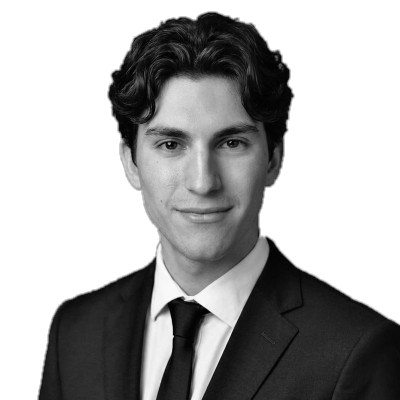
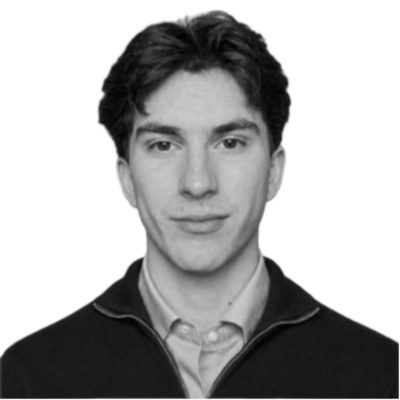
Team: add Theo Watson to Ops & Outreach; committee rows of three and four
New photo for Sebastian Fioravante, correct fallback initials on both
Ops & Outreach cards, committee sized like the division heads, and
Emily Chiaia-Miller's new LinkedIn URL.

Changed region(s): [[0.0, 0.0, 1.0, 1.0], [0.81, 0.87, 0.87, 0.9]]

diff --git a/team/index.html b/team/index.html
@@ -243,18 +243,32 @@
       .team__tier--division-heads .team-card__name { font-size: clamp(0.75rem, 3.7vw, 0.9375rem); }
     }
 
-    /* Committee: six officers, so a fixed grid instead of the flex row.
-       Every circle sits on one grid rather than being pushed about by name
-       length: three by two on wide screens, two per row on phones. */
-    .team__tier--committee .team__tier-cards {
-      display: grid;
-      grid-template-columns: repeat(3, minmax(0, 220px));
-      justify-content: center;
-      gap: var(--space-5) clamp(16px, 4vw, 64px);
+    /* Committee: two centred rows (three, then four) sized exactly like the
+       division heads: every card the same width with the same gap. On phones
+       the two rows dissolve into one flow, two per row. */
+    .team__tier--committee {
+      --dh-w: 200px;
+      --dh-gap: clamp(16px, 3vw, 48px);
     }
-    .team__tier--committee .team-card { text-align: center; }
+    .team__committee-rows {
+      display: flex;
+      flex-direction: column;
+      gap: var(--space-4);
+    }
+    .team__tier--committee .team__tier-cards { gap: var(--space-4) var(--dh-gap); }
+    .team__tier--committee .team-card {
+      flex: 0 0 var(--dh-w);
+      width: var(--dh-w);
+      text-align: center;
+    }
     @media (max-width: 560px) {
-      .team__tier--committee .team__tier-cards { grid-template-columns: repeat(2, minmax(0, 160px)); gap: var(--space-4) 14px; }
+      .team__tier--committee { --dh-w: 148px; --dh-gap: 14px; }
+      .team__committee-rows {
+        flex-flow: row wrap;
+        justify-content: center;
+        gap: var(--space-4) var(--dh-gap);
+      }
+      .team__tier--committee .team__tier-cards { display: contents; }
       .team__tier--committee .team-card__photo { width: 128px; height: 128px; }
       .team__tier--committee .team-card__name { font-size: clamp(0.75rem, 3.7vw, 0.9375rem); }
       .team__tier--committee .team-card__role { font-size: 0.8125rem; }
@@ -445,6 +459,7 @@
       <!-- ── Committee ──────────────────────────────────────────────────── -->
       <div class="team__tier team__tier--committee">
         <span class="team__tier-label">Committee</span>
+        <div class="team__committee-rows">
         <div class="team__tier-cards">
 
           <a class="team-card" href="https://www.linkedin.com/in/rezqymaulana/" target="_blank" rel="noopener noreferrer" aria-label="Rezqy Maulana, General Secretary — LinkedIn profile">
@@ -467,7 +482,7 @@
             <p class="team-card__role">Treasurer</p>
           </a>
 
-          <a class="team-card" href="https://www.linkedin.com/in/emily-chiaia-miller-006469313/" target="_blank" rel="noopener noreferrer" aria-label="Emily Chiaia-Miller, DEI Officer — LinkedIn profile">
+          <a class="team-card" href="https://www.linkedin.com/in/emily-c-006469313/" target="_blank" rel="noopener noreferrer" aria-label="Emily Chiaia-Miller, DEI Officer — LinkedIn profile">
             <div class="team-card__photo">
               <img class="team-card__img" src="assets/img/team/emily-chiaia-miller.jpg" alt="Emily Chiaia-Miller" onerror="this.style.display='none'" />
               <svg class="team-card__img" viewBox="0 0 180 180" xmlns="http://www.w3.org/2000/svg" aria-hidden="true"><rect width="180" height="180" fill="#0d2b6b"/><text x="90" y="112" text-anchor="middle" font-family="system-ui,sans-serif" font-size="62" font-weight="700" fill="#38bdf8" letter-spacing="-2">EC</text></svg>
@@ -476,14 +491,26 @@
             <p class="team-card__name"><span>Emily</span> <span>Chiaia-Miller</span></p>
             <p class="team-card__role">DEI Officer</p>
           </a>
+        </div>
+        <div class="team__tier-cards">
 
           <a class="team-card" href="https://www.linkedin.com/in/sebastian-fioravante-722894233/" target="_blank" rel="noopener noreferrer" aria-label="Sebastian Fioravante, Ops &amp; Outreach — LinkedIn profile">
             <div class="team-card__photo">
-              <img class="team-card__img" src="assets/img/team/sebastian-fioravante.jpg" alt="Sebastian Fioravante" onerror="this.style.display='none'" />
-              <svg class="team-card__img" viewBox="0 0 180 180" xmlns="http://www.w3.org/2000/svg" aria-hidden="true"><rect width="180" height="180" fill="#0d2b6b"/><text x="90" y="112" text-anchor="middle" font-family="system-ui,sans-serif" font-size="62" font-weight="700" fill="#38bdf8" letter-spacing="-2">RM</text></svg>
+              <img class="team-card__img" src="assets/img/team/sebastian-fioravante.jpg?v=2" alt="Sebastian Fioravante" onerror="this.style.display='none'" />
+              <svg class="team-card__img" viewBox="0 0 180 180" xmlns="http://www.w3.org/2000/svg" aria-hidden="true"><rect width="180" height="180" fill="#0d2b6b"/><text x="90" y="112" text-anchor="middle" font-family="system-ui,sans-serif" font-size="62" font-weight="700" fill="#38bdf8" letter-spacing="-2">SF</text></svg>
               <div class="team-card__overlay" aria-hidden="true"><svg class="team-card__li-icon" viewBox="0 0 24 24" fill="currentColor"><path d="M20.447 20.452h-3.554v-5.569c0-1.328-.027-3.037-1.852-3.037-1.853 0-2.136 1.445-2.136 2.939v5.667H9.351V9h3.414v1.561h.046c.477-.9 1.637-1.85 3.37-1.85 3.601 0 4.267 2.37 4.267 5.455v6.286zM5.337 7.433a2.062 2.062 0 0 1-2.063-2.065 2.064 2.064 0 1 1 2.063 2.065zm1.782 13.019H3.555V9h3.564v11.452zM22.225 0H1.771C.792 0 0 .774 0 1.729v20.542C0 23.227.792 24 1.771 24h20.451C23.2 24 24 23.227 24 22.271V1.729C24 .774 23.2 0 22.222 0h.003z"/></svg></div>
             </div>
             <p class="team-card__name"><span>Sebastian</span> <span>Fioravante</span></p>
+            <p class="team-card__role">Ops &amp; Outreach</p>
+          </a>
+
+          <a class="team-card" href="https://www.linkedin.com/in/theo-watson-458778326/" target="_blank" rel="noopener noreferrer" aria-label="Theo Watson, Ops &amp; Outreach — LinkedIn profile">
+            <div class="team-card__photo">
+              <img class="team-card__img" src="assets/img/team/theo-watson.jpg" alt="Theo Watson" onerror="this.style.display='none'" />
+              <svg class="team-card__img" viewBox="0 0 180 180" xmlns="http://www.w3.org/2000/svg" aria-hidden="true"><rect width="180" height="180" fill="#0d2b6b"/><text x="90" y="112" text-anchor="middle" font-family="system-ui,sans-serif" font-size="62" font-weight="700" fill="#38bdf8" letter-spacing="-2">TW</text></svg>
+              <div class="team-card__overlay" aria-hidden="true"><svg class="team-card__li-icon" viewBox="0 0 24 24" fill="currentColor"><path d="M20.447 20.452h-3.554v-5.569c0-1.328-.027-3.037-1.852-3.037-1.853 0-2.136 1.445-2.136 2.939v5.667H9.351V9h3.414v1.561h.046c.477-.9 1.637-1.85 3.37-1.85 3.601 0 4.267 2.37 4.267 5.455v6.286zM5.337 7.433a2.062 2.062 0 0 1-2.063-2.065 2.064 2.064 0 1 1 2.063 2.065zm1.782 13.019H3.555V9h3.564v11.452zM22.225 0H1.771C.792 0 0 .774 0 1.729v20.542C0 23.227.792 24 1.771 24h20.451C23.2 24 24 23.227 24 22.271V1.729C24 .774 23.2 0 22.222 0h.003z"/></svg></div>
+            </div>
+            <p class="team-card__name"><span>Theo</span> <span>Watson</span></p>
             <p class="team-card__role">Ops &amp; Outreach</p>
           </a>
 
@@ -506,8 +533,7 @@
             <p class="team-card__name"><span>Adi</span> <span>Narayan</span></p>
             <p class="team-card__role">Media &amp; Marketing</p>
           </a>
-
-
+        </div>
         </div>
       </div>
 
@@ -652,7 +678,7 @@
               </div>
               <p class="team-card__name"><span>Lenny</span> <span>Tucker</span></p>
             </a>
-            <a class="team-card" href="https://www.linkedin.com/in/emily-chiaia-miller-006469313/" target="_blank" rel="noopener noreferrer" aria-label="Emily Chiaia-Miller, Macro Division Head &mdash; LinkedIn profile">
+            <a class="team-card" href="https://www.linkedin.com/in/emily-c-006469313/" target="_blank" rel="noopener noreferrer" aria-label="Emily Chiaia-Miller, Macro Division Head &mdash; LinkedIn profile">
               <div class="team-card__photo">
                 <img class="team-card__img" src="assets/img/team/emily-chiaia-miller.jpg" alt="Emily Chiaia-Miller" onerror="this.style.display='none'" />
                 <svg class="team-card__img" viewBox="0 0 180 180" xmlns="http://www.w3.org/2000/svg" aria-hidden="true"><rect width="180" height="180" fill="#0d2b6b"/><text x="90" y="112" text-anchor="middle" font-family="system-ui,sans-serif" font-size="62" font-weight="700" fill="#38bdf8" letter-spacing="-2">EC</text></svg>
